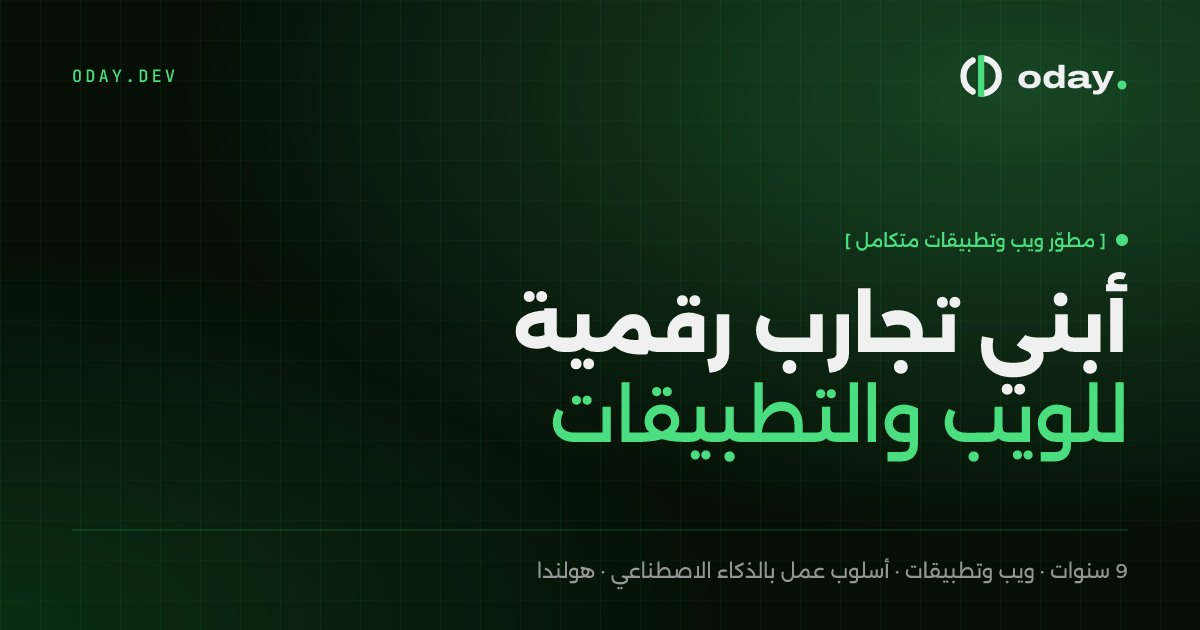
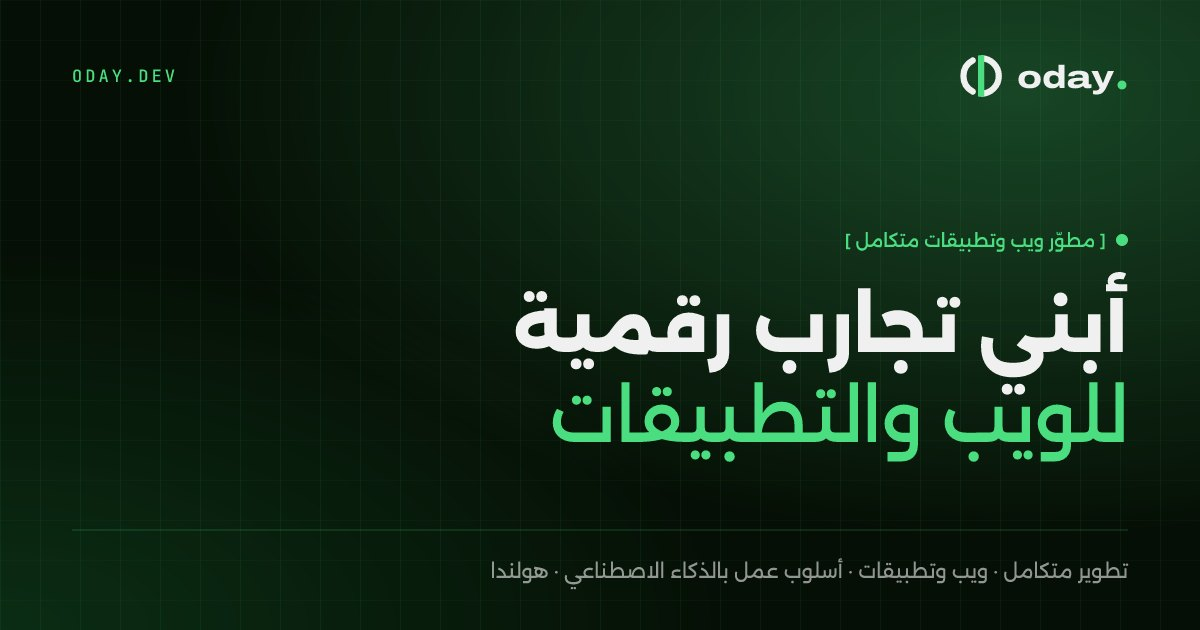
content: remove every "9 years" mention, in all four languages
- Hero intro, meta and social descriptions, marquee, "approach" card,
  skills heading and portfolio intro no longer mention years of
  experience (EN / AR / NL / TR)
- Skills stats: "9+ years" replaced by the number of industries served,
  counted from the project data
- Regenerated the home social images; the old default og-image.png (which
  also said "9 years") is replaced by /og/en/home.jpg

Claude-Session: https://claude.ai/code/session_011KmY3cssiNzyeh69j79x7p

Changed region(s): [[0.4008, 0.8746, 0.925, 0.9349]]

diff --git a/src/i18n/messages/ar.ts b/src/i18n/messages/ar.ts
@@ -4,9 +4,9 @@ const ar: Messages = {
   meta: {
     homeTitle: "عدي — مطوّر ويب وتطبيقات متكامل",
     homeDescription:
-      "عدي — مطوّر ويب وتطبيقات جوال متكامل بخبرة 9 سنوات في بناء المواقع المؤسسية والمتاجر الإلكترونية والمنصات المخصّصة وتطبيقات iOS و Android، بأسلوب عمل مدعوم بالذكاء الاصطناعي. مقيم في هولندا ويعمل مع عملاء حول العالم.",
+      "عدي — مطوّر ويب وتطبيقات جوال متكامل يبني المواقع المؤسسية والمتاجر الإلكترونية والمنصات المخصّصة وتطبيقات iOS و Android، بأسلوب عمل مدعوم بالذكاء الاصطناعي. مقيم في هولندا ويعمل مع عملاء حول العالم.",
     ogDescription:
-      "9 سنوات في بناء مواقع وتطبيقات سريعة ومخصّصة — واجهات أمامية وخلفية و SEO وتجربة مستخدم، بأسلوب عمل مدعوم بالذكاء الاصطناعي.",
+      "مواقع وتطبيقات سريعة ومخصّصة — واجهات أمامية وخلفية و SEO وتجربة مستخدم، بأسلوب عمل مدعوم بالذكاء الاصطناعي.",
     portfolioTitle: "الأعمال — عدي",
     portfolioDescription:
       "معرض أعمال عدي الكامل — مواقع مؤسسية ومنصات ومتاجر إلكترونية وتطبيقات جوال، من التصميم إلى البناء والصيانة.",
@@ -30,15 +30,15 @@ const ar: Messages = {
     label: "مطوّر ويب وتطبيقات متكامل",
     line1: "أبني تجارب رقمية",
     line2: "للويب والتطبيقات",
-    desc: "9 سنوات في تحويل الأفكار إلى منتجات سريعة وموثوقة — مواقع مؤسسية ومتاجر إلكترونية ومنصات مخصّصة، والآن تطبيقات iOS و Android. من الواجهة إلى الخادم. مقيم في هولندا وأعمل مع عملاء حول العالم.",
+    desc: "أحوّل الأفكار إلى منتجات سريعة وموثوقة — مواقع مؤسسية ومتاجر إلكترونية ومنصات مخصّصة، والآن تطبيقات iOS و Android. من الواجهة إلى الخادم. مقيم في هولندا وأعمل مع عملاء حول العالم.",
   },
-  marquee: "9 سنوات · ويب وتطبيقات · أسلوب عمل بالذكاء الاصطناعي · هولندا",
+  marquee: "تطوير متكامل · ويب وتطبيقات · أسلوب عمل بالذكاء الاصطناعي · هولندا",
   approach: {
     eyebrow: "تعرّف عليّ أكثر — مطوّر يُنجز",
     items: [
       {
-        title: "9 سنوات من الخبرة",
-        body: "قرابة عقد في بناء وصيانة منتجات بكل الأحجام — من صفحات تعريفية بسيطة إلى متاجر إلكترونية ومنصات متعددة المواقع وتطبيق iOS يستخدمه أشخاص حقيقيون.",
+        title: "من الفكرة حتى الإطلاق",
+        body: "أصمّم وأبني وأطلق وأصون منتجات بكل الأحجام — من صفحات تعريفية بسيطة إلى متاجر إلكترونية ومنصات متعددة المواقع وتطبيق iOS يستخدمه أشخاص حقيقيون.",
       },
       {
         title: "حلول مخصّصة لا قوالب جاهزة",
@@ -92,10 +92,10 @@ const ar: Messages = {
   },
   skills: {
     eyebrow: "04 / المهارات",
-    title: ["أدوات أثق بها،", "صقلتها على مدى 9 سنوات."],
+    title: ["أدوات أثق بها،", "صقلتها في مشاريع حقيقية."],
     sub: "حِرفية في الواجهات، ومنطق في الخوادم، وتطبيقات جوال وكل ما بينها — كل ما أحتاجه لأنقل المنتج من الفكرة إلى الإطلاق.",
     stats: [
-      "سنوات في بناء الويب",
+      "مجالات عملت فيها",
       "مشاريع أُطلقت وتُدار",
       "منصات — الويب و iOS و Android",
       "لغات عمل — الإنجليزية والعربية والتركية",
@@ -156,7 +156,7 @@ const ar: Messages = {
   portfolio: {
     eyebrow: "الأعمال · {n} مشروعًا",
     title: ["كل", "أعمالي."],
-    sub: "تسع سنوات من المواقع المؤسسية والمنصات والمتاجر الإلكترونية، والآن تطبيقات الجوال — من التصميم إلى البناء والصيانة. صفِّ حسب النوع أدناه.",
+    sub: "مواقع مؤسسية ومنصات ومتاجر إلكترونية، والآن تطبيقات الجوال — من التصميم إلى البناء والصيانة. صفِّ حسب النوع أدناه.",
     filterLabel: "تصفية المشاريع حسب الفئة",
     all: "الكل",
     typeLabel: "النوع",

diff --git a/src/i18n/messages/tr.ts b/src/i18n/messages/tr.ts
@@ -4,9 +4,9 @@ const tr: Messages = {
   meta: {
     homeTitle: "Oday — Full-Stack Web & Mobil Geliştirici",
     homeDescription:
-      "Oday — kurumsal siteler, e-ticaret mağazaları, özel platformlar ve iOS & Android uygulamaları geliştirmede 9 yıllık deneyime sahip, yapay zekâ destekli çalışan full-stack web ve mobil geliştirici. Hollanda'da yaşıyor, dünya genelinde çalışıyor.",
+      "Oday — kurumsal siteler, e-ticaret mağazaları, özel platformlar ve iOS & Android uygulamaları geliştiren, yapay zekâ destekli çalışan full-stack web ve mobil geliştirici. Hollanda'da yaşıyor, dünya genelinde çalışıyor.",
     ogDescription:
-      "9 yıldır hızlı, özel web siteleri ve mobil uygulamalar — front-end, back-end, SEO ve UI/UX, yapay zekâ destekli bir iş akışıyla.",
+      "Hızlı, özel web siteleri ve mobil uygulamalar — front-end, back-end, SEO ve UI/UX, yapay zekâ destekli bir iş akışıyla.",
     portfolioTitle: "Portfolyo — Oday",
     portfolioDescription:
       "Oday'in tüm portfolyosu — baştan sona tasarlanan, geliştirilen ve bakımı yapılan kurumsal siteler, platformlar, e-ticaret mağazaları ve mobil uygulamalar.",
@@ -30,15 +30,15 @@ const tr: Messages = {
     label: "FULL-STACK WEB & MOBİL GELİŞTİRİCİ",
     line1: "Full-stack geliştirilen",
     line2: "web & uygulama deneyimleri",
-    desc: "9 yıldır fikirleri hızlı ve güvenilir ürünlere dönüştürüyorum — kurumsal siteler, e-ticaret mağazaları, özel platformlar ve artık iOS & Android uygulamaları. Front-end'den back-end'e. Hollanda'da yaşıyor, dünya genelinde çalışıyorum.",
+    desc: "Fikirleri hızlı ve güvenilir ürünlere dönüştürüyorum — kurumsal siteler, e-ticaret mağazaları, özel platformlar ve artık iOS & Android uygulamaları. Front-end'den back-end'e. Hollanda'da yaşıyor, dünya genelinde çalışıyorum.",
   },
-  marquee: "9 YIL · WEB & MOBİL · YAPAY ZEKÂ DESTEKLİ İŞ AKIŞI · HOLLANDA",
+  marquee: "FULL-STACK · WEB & MOBİL · YAPAY ZEKÂ DESTEKLİ İŞ AKIŞI · HOLLANDA",
   approach: {
     eyebrow: "Beni daha yakından tanıyın — işi teslim eden bir geliştirici",
     items: [
       {
-        title: "9 yıllık deneyim",
-        body: "Yaklaşık on yıldır her ölçekte ürün geliştiriyor ve bakımını yapıyorum — tek sayfalık tanıtım sitelerinden e-ticarete, çoklu site platformlarına ve gerçek kullanıcıları olan canlı bir iOS uygulamasına kadar.",
+        title: "Fikirden yayına, uçtan uca",
+        body: "Her ölçekte ürünü tasarlıyor, geliştiriyor, yayına alıyor ve bakımını yapıyorum — tek sayfalık tanıtım sitelerinden e-ticarete, çoklu site platformlarına ve gerçek kullanıcıları olan canlı bir iOS uygulamasına kadar.",
       },
       {
         title: "Hazır tema değil, size özel",
@@ -92,10 +92,10 @@ const tr: Messages = {
   },
   skills: {
     eyebrow: "04 / YETENEKLER",
-    title: ["Güvendiğim araçlar,", "9 yılda keskinleşti."],
+    title: ["Güvendiğim araçlar,", "gerçek projelerde keskinleşti."],
     sub: "Front-end ustalığı, back-end mantığı, mobil uygulamalar ve aradaki tüm platformlar — bir ürünü boş sayfadan yayına taşımak için gereken her şey.",
     stats: [
-      "Yıl web için geliştirme",
+      "Hizmet verilen sektör",
       "Teslim edilen ve bakımı yapılan proje",
       "Platform — Web, iOS, Android",
       "Çalışma dili — EN, AR, TR",
@@ -156,7 +156,7 @@ const tr: Messages = {
   portfolio: {
     eyebrow: "PORTFOLYO · {n} PROJE",
     title: ["Tüm", "işlerim."],
-    sub: "Dokuz yıllık kurumsal siteler, platformlar, e-ticaret mağazaları ve artık mobil uygulamalar — baştan sona tasarlandı, geliştirildi ve bakımı yapıldı. Aşağıdan türe göre filtreleyin.",
+    sub: "Kurumsal siteler, platformlar, e-ticaret mağazaları ve artık mobil uygulamalar — baştan sona tasarlandı, geliştirildi ve bakımı yapıldı. Aşağıdan türe göre filtreleyin.",
     filterLabel: "Projeleri kategoriye göre filtrele",
     all: "Tümü",
     typeLabel: "Tür",

diff --git a/src/i18n/messages/nl.ts b/src/i18n/messages/nl.ts
@@ -4,9 +4,9 @@ const nl: Messages = {
   meta: {
     homeTitle: "Oday — Full-stack web- & mobile developer",
     homeDescription:
-      "Oday — full-stack web- en mobile developer met 9 jaar ervaring in bedrijfswebsites, webshops, maatwerkplatforms en iOS- en Android-apps, met een AI-ondersteunde werkwijze. Gevestigd in Nederland, werkt wereldwijd.",
+      "Oday — full-stack web- en mobile developer voor bedrijfswebsites, webshops, maatwerkplatforms en iOS- en Android-apps, met een AI-ondersteunde werkwijze. Gevestigd in Nederland, werkt wereldwijd.",
     ogDescription:
-      "9 jaar snelle websites en mobiele apps op maat — front-end, back-end, SEO en UI/UX, met een AI-ondersteunde werkwijze.",
+      "Snelle websites en mobiele apps op maat — front-end, back-end, SEO en UI/UX, met een AI-ondersteunde werkwijze.",
     portfolioTitle: "Portfolio — Oday",
     portfolioDescription:
       "Het volledige portfolio van Oday — bedrijfswebsites, platforms, webshops en mobiele apps, van ontwerp tot bouw en onderhoud.",
@@ -30,15 +30,15 @@ const nl: Messages = {
     label: "FULL-STACK WEB- & MOBILE DEVELOPER",
     line1: "Full-stack bouwen",
     line2: "voor web & apps",
-    desc: "9 jaar ideeën omzetten in snelle, betrouwbare producten — bedrijfswebsites, webshops, maatwerkplatforms en nu ook iOS- en Android-apps. Van front-end tot back-end. Gevestigd in Nederland, werkt wereldwijd.",
+    desc: "Ideeën omzetten in snelle, betrouwbare producten — bedrijfswebsites, webshops, maatwerkplatforms en nu ook iOS- en Android-apps. Van front-end tot back-end. Gevestigd in Nederland, werkt wereldwijd.",
   },
-  marquee: "9 JAAR · WEB & MOBILE · AI-ONDERSTEUNDE WERKWIJZE · NEDERLAND",
+  marquee: "FULL-STACK · WEB & MOBILE · AI-ONDERSTEUNDE WERKWIJZE · NEDERLAND",
   approach: {
     eyebrow: "Leer me kennen — een developer die oplevert",
     items: [
       {
-        title: "9 jaar ervaring",
-        body: "Bijna tien jaar producten bouwen en onderhouden van elk formaat — van eenvoudige websites tot webshops, multisite-platforms en een live iOS-app met echte gebruikers.",
+        title: "Van idee tot lancering",
+        body: "Ik ontwerp, bouw, lanceer en onderhoud producten van elk formaat — van eenvoudige websites tot webshops, multisite-platforms en een live iOS-app met echte gebruikers.",
       },
       {
         title: "Maatwerk, geen standaardthema",
@@ -92,10 +92,10 @@ const nl: Messages = {
   },
   skills: {
     eyebrow: "04 / SKILLS",
-    title: ["Tools die ik vertrouw,", "aangescherpt in 9 jaar."],
+    title: ["Tools die ik vertrouw,", "aangescherpt in echte projecten."],
     sub: "Front-end vakmanschap, back-end logica, mobiele apps en alles daartussen — alles wat nodig is om een product van leeg canvas tot lancering te brengen.",
     stats: [
-      "Jaar bouwen voor het web",
+      "Branches bediend",
       "Projecten opgeleverd & onderhouden",
       "Platforms — web, iOS, Android",
       "Werktalen — EN, AR, TR",
@@ -156,7 +156,7 @@ const nl: Messages = {
   portfolio: {
     eyebrow: "PORTFOLIO · {n} PROJECTEN",
     title: ["Al mijn", "werk."],
-    sub: "Negen jaar bedrijfswebsites, platforms, webshops en nu ook mobiele apps — ontworpen, gebouwd en onderhouden van begin tot eind. Filter hieronder op type.",
+    sub: "Bedrijfswebsites, platforms, webshops en nu ook mobiele apps — ontworpen, gebouwd en onderhouden van begin tot eind. Filter hieronder op type.",
     filterLabel: "Filter projecten op categorie",
     all: "Alles",
     typeLabel: "Type",

diff --git a/src/i18n/messages/en.ts b/src/i18n/messages/en.ts
@@ -6,9 +6,9 @@ const en = {
   meta: {
     homeTitle: "Oday — Full-Stack Web & Mobile Developer",
     homeDescription:
-      "Oday — Full-Stack Web & Mobile Developer with 9 years of experience building corporate sites, online stores, custom platforms and iOS & Android apps, with an AI-assisted workflow. Based in the Netherlands, working worldwide.",
+      "Oday — Full-Stack Web & Mobile Developer building corporate sites, online stores, custom platforms and iOS & Android apps, with an AI-assisted workflow. Based in the Netherlands, working worldwide.",
     ogDescription:
-      "9 years crafting fast, custom websites and mobile apps — front-end, back-end, SEO and UI/UX, with an AI-assisted workflow.",
+      "Fast, custom websites and mobile apps — front-end, back-end, SEO and UI/UX, with an AI-assisted workflow.",
     portfolioTitle: "Portfolio — Oday",
     portfolioDescription:
       "The full portfolio of Oday — corporate websites, platforms, online stores and mobile apps designed, built and maintained end to end.",
@@ -32,15 +32,15 @@ const en = {
     label: "FULL-STACK WEB & MOBILE DEVELOPER",
     line1: "Building Full-Stack",
     line2: "Web & App Experiences",
-    desc: "9 years turning ideas into fast, reliable products — corporate sites, online stores, custom platforms and, now, iOS & Android apps. Front-end to back-end. Based in the Netherlands, working worldwide.",
+    desc: "Turning ideas into fast, reliable products — corporate sites, online stores, custom platforms and, now, iOS & Android apps. Front-end to back-end. Based in the Netherlands, working worldwide.",
   },
-  marquee: "9 YEARS · WEB & MOBILE · AI-ASSISTED WORKFLOW · NETHERLANDS",
+  marquee: "FULL-STACK · WEB & MOBILE · AI-ASSISTED WORKFLOW · NETHERLANDS",
   approach: {
     eyebrow: "Know me more — a developer who ships",
     items: [
       {
-        title: "9 years of experience",
-        body: "Nearly a decade building and maintaining products of every size — from single-page brochures to e-commerce, multi-site platforms and a live iOS app handling real users.",
+        title: "End to end, start to finish",
+        body: "I design, build, launch and maintain products of every size — from single-page brochures to e-commerce, multi-site platforms and a live iOS app handling real users.",
       },
       {
         title: "Custom, not off-the-shelf",
@@ -94,10 +94,10 @@ const en = {
   },
   skills: {
     eyebrow: "04 / SKILLS",
-    title: ["Tools I trust,", "sharpened over 9 years."] as [string, string],
+    title: ["Tools I trust,", "sharpened on real projects."] as [string, string],
     sub: "Front-end craft, back-end logic, mobile apps and the platforms in between — everything I need to take a product from blank canvas to launch.",
     stats: [
-      "Years building for the web",
+      "Industries served",
       "Projects shipped & maintained",
       "Platforms — Web, iOS, Android",
       "Working languages — EN, AR, TR",
@@ -158,7 +158,7 @@ const en = {
   portfolio: {
     eyebrow: "PORTFOLIO · {n} PROJECTS",
     title: ["All my", "work."] as [string, string],
-    sub: "Nine years of corporate websites, platforms, online stores and now mobile apps — designed, built and maintained end to end. Filter by type below.",
+    sub: "Corporate websites, platforms, online stores and now mobile apps — designed, built and maintained end to end. Filter by type below.",
     filterLabel: "Filter projects by category",
     all: "All",
     typeLabel: "Type",

diff --git a/src/routes/__root.tsx b/src/routes/__root.tsx
@@ -65,7 +65,7 @@ export const Route = createRootRoute({
       {
         name: "description",
         content:
-          "Full-Stack Web & Mobile Developer with 9 years of experience building fast, custom websites, online stores, platforms and iOS & Android apps, with an AI-assisted workflow.",
+          "Full-Stack Web & Mobile Developer building fast, custom websites, online stores, platforms and iOS & Android apps, with an AI-assisted workflow.",
       },
       { name: "author", content: "Oday" },
       { name: "theme-color", content: "#050F05" },
@@ -74,14 +74,14 @@ export const Route = createRootRoute({
       {
         property: "og:description",
         content:
-          "9 years crafting fast, custom websites and mobile apps — front-end, back-end, SEO and UI/UX, with an AI-assisted workflow.",
+          "Fast, custom websites and mobile apps — front-end, back-end, SEO and UI/UX, with an AI-assisted workflow.",
       },
       { property: "og:type", content: "website" },
-      { property: "og:image", content: `${SITE_URL}/og-image.png` },
+      { property: "og:image", content: `${SITE_URL}/og/en/home.jpg` },
       { property: "og:image:width", content: "1200" },
       { property: "og:image:height", content: "630" },
       { name: "twitter:card", content: "summary_large_image" },
-      { name: "twitter:image", content: `${SITE_URL}/og-image.png` },
+      { name: "twitter:image", content: `${SITE_URL}/og/en/home.jpg` },
     ],
     links: [
       { rel: "icon", href: "/favicon.svg", type: "image/svg+xml" },

diff --git a/src/components/Skills.tsx b/src/components/Skills.tsx
@@ -7,7 +7,7 @@ import { useMessages } from "@/i18n";
 gsap.registerPlugin(ScrollTrigger);
 
 const STATS = [
-  { value: "9+", label: "Years building for the web" },
+  { value: String(new Set(projects.map((p) => p.category)).size), label: "Industries served" },
   { value: String(projects.length), label: "Projects shipped & maintained" },
   { value: "3", label: "Platforms — Web, iOS, Android" },
   { value: "3", label: "Working languages — EN, AR, TR" },

diff --git a/src/routes/{-$locale}/index.tsx b/src/routes/{-$locale}/index.tsx
@@ -57,7 +57,7 @@ const jsonLd = (locale: Locale, jobTitle: string, description: string) => ({
       "@id": `${SITE_URL}/#service`,
       name: "Oday — Web & Mobile Development",
       url: SITE_URL,
-      image: `${SITE_URL}/og-image.png`,
+      image: `${SITE_URL}/og/en/home.jpg`,
       founder: { "@id": `${SITE_URL}/#person` },
       areaServed: "Worldwide",
       address: { "@type": "PostalAddress", addressCountry: "NL" },
